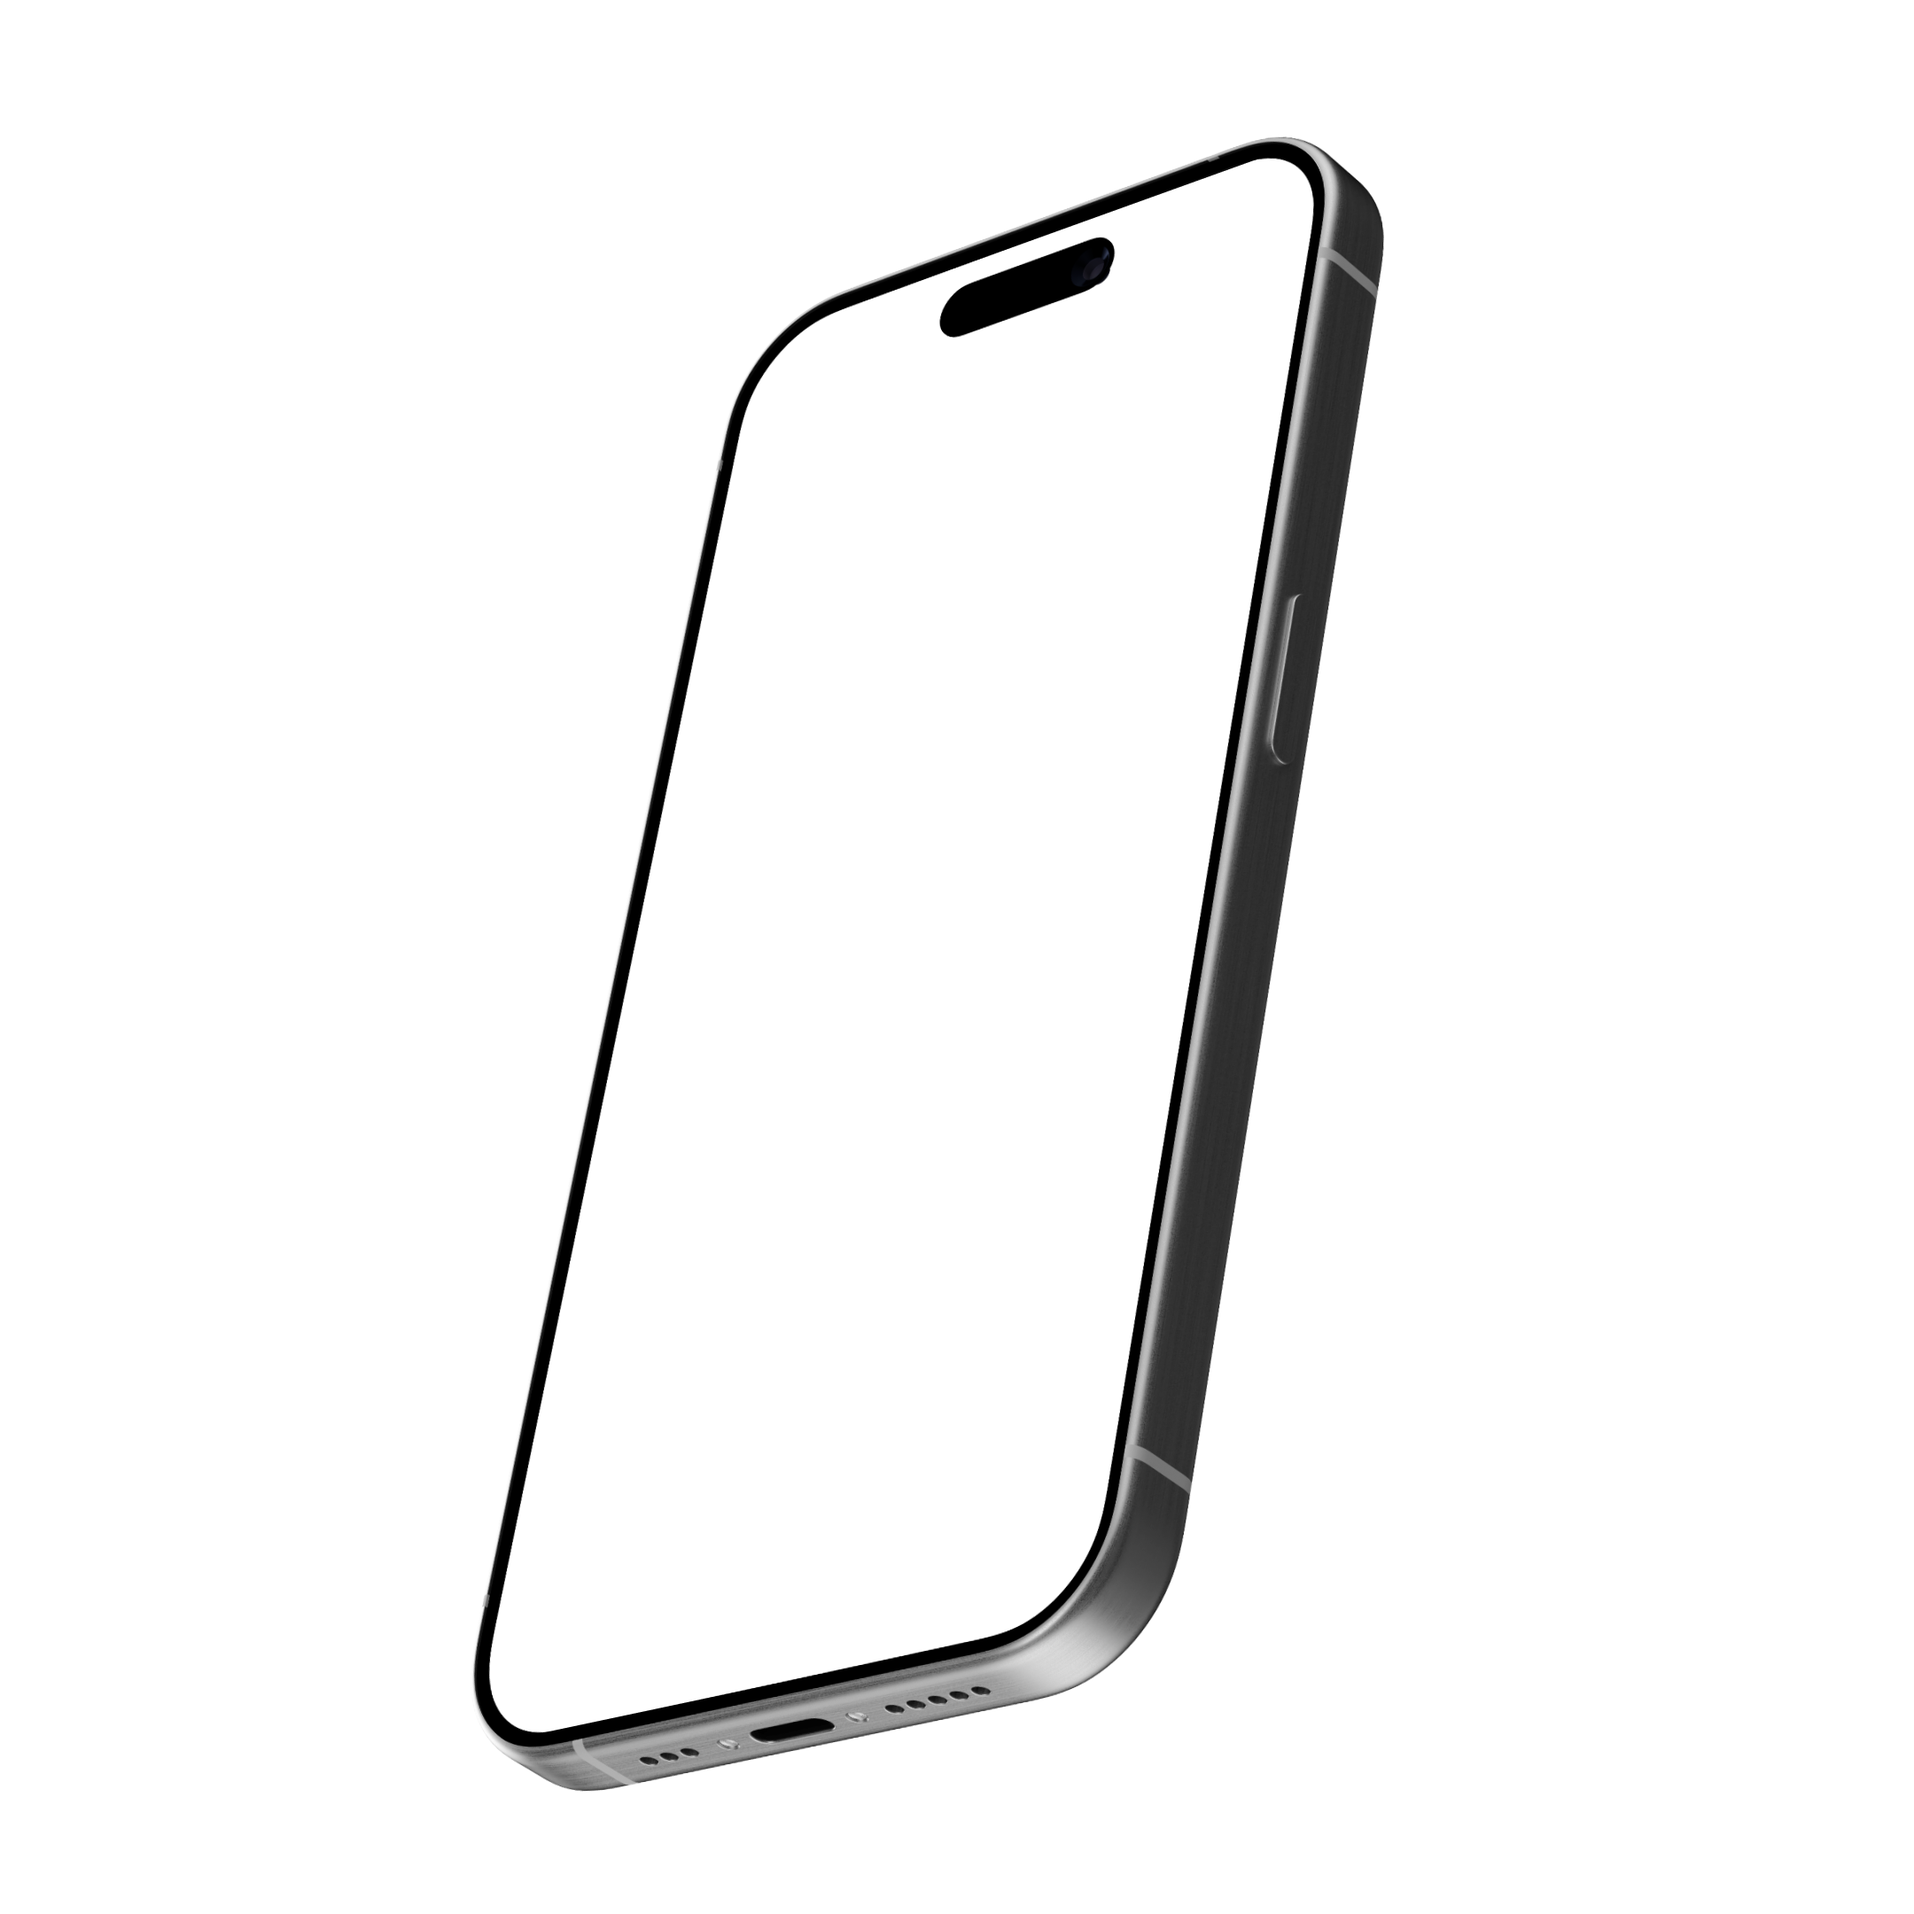
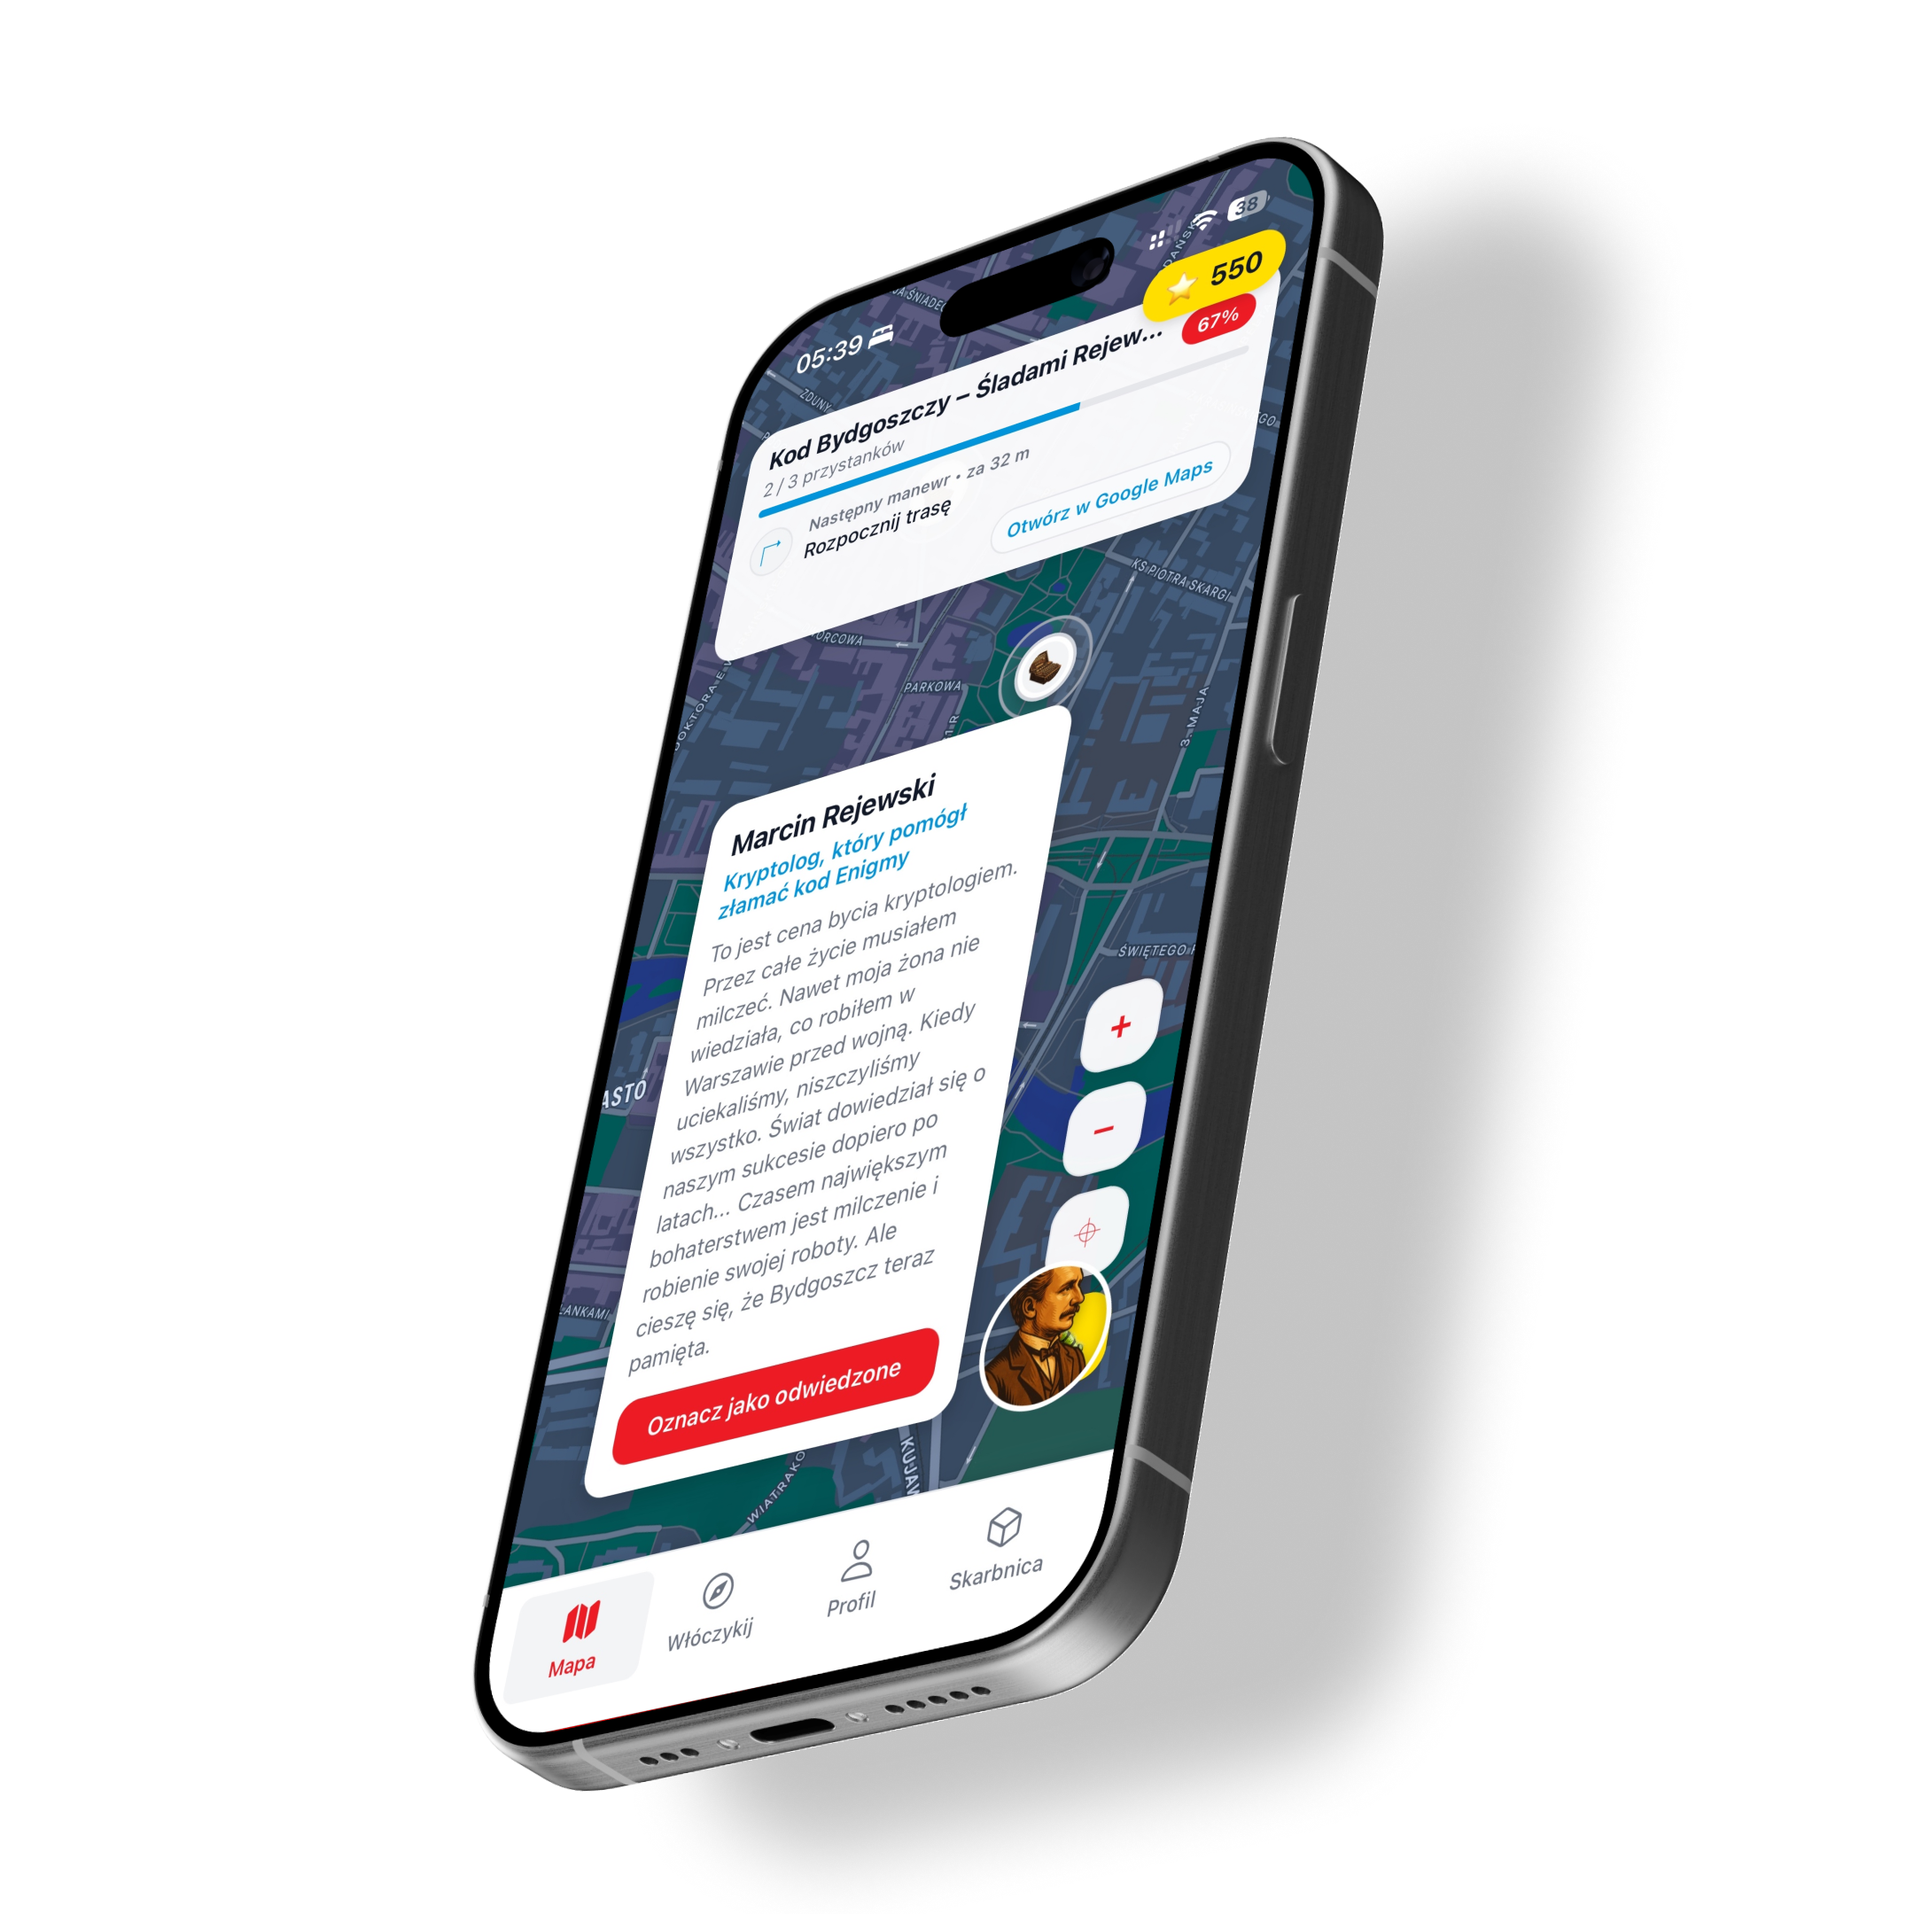
Update hero component layout and replace mockup images

Changed region(s): [[0.2481, 0.062, 0.8685, 0.9926], [0.4963, 0.8065, 0.5273, 0.8375]]

diff --git a/apps/landing/components/hero.tsx b/apps/landing/components/hero.tsx
@@ -133,7 +133,7 @@ export default function Hero() {
             </div>
 
             <div className="flex flex-1 items-center justify-center">
-              <div className="relative w-full max-w-xs sm:max-w-sm md:max-w-xs lg:max-w-sm">
+              <div className="relative w-full max-w-xs sm:max-w-sm md:max-w-xs lg:max-w-md">
                 <div className="absolute inset-0 -z-10 scale-110 rounded-[2.5rem] bg-secondary/25 blur-2xl" />
                 <div className="w-full">
                   <img
